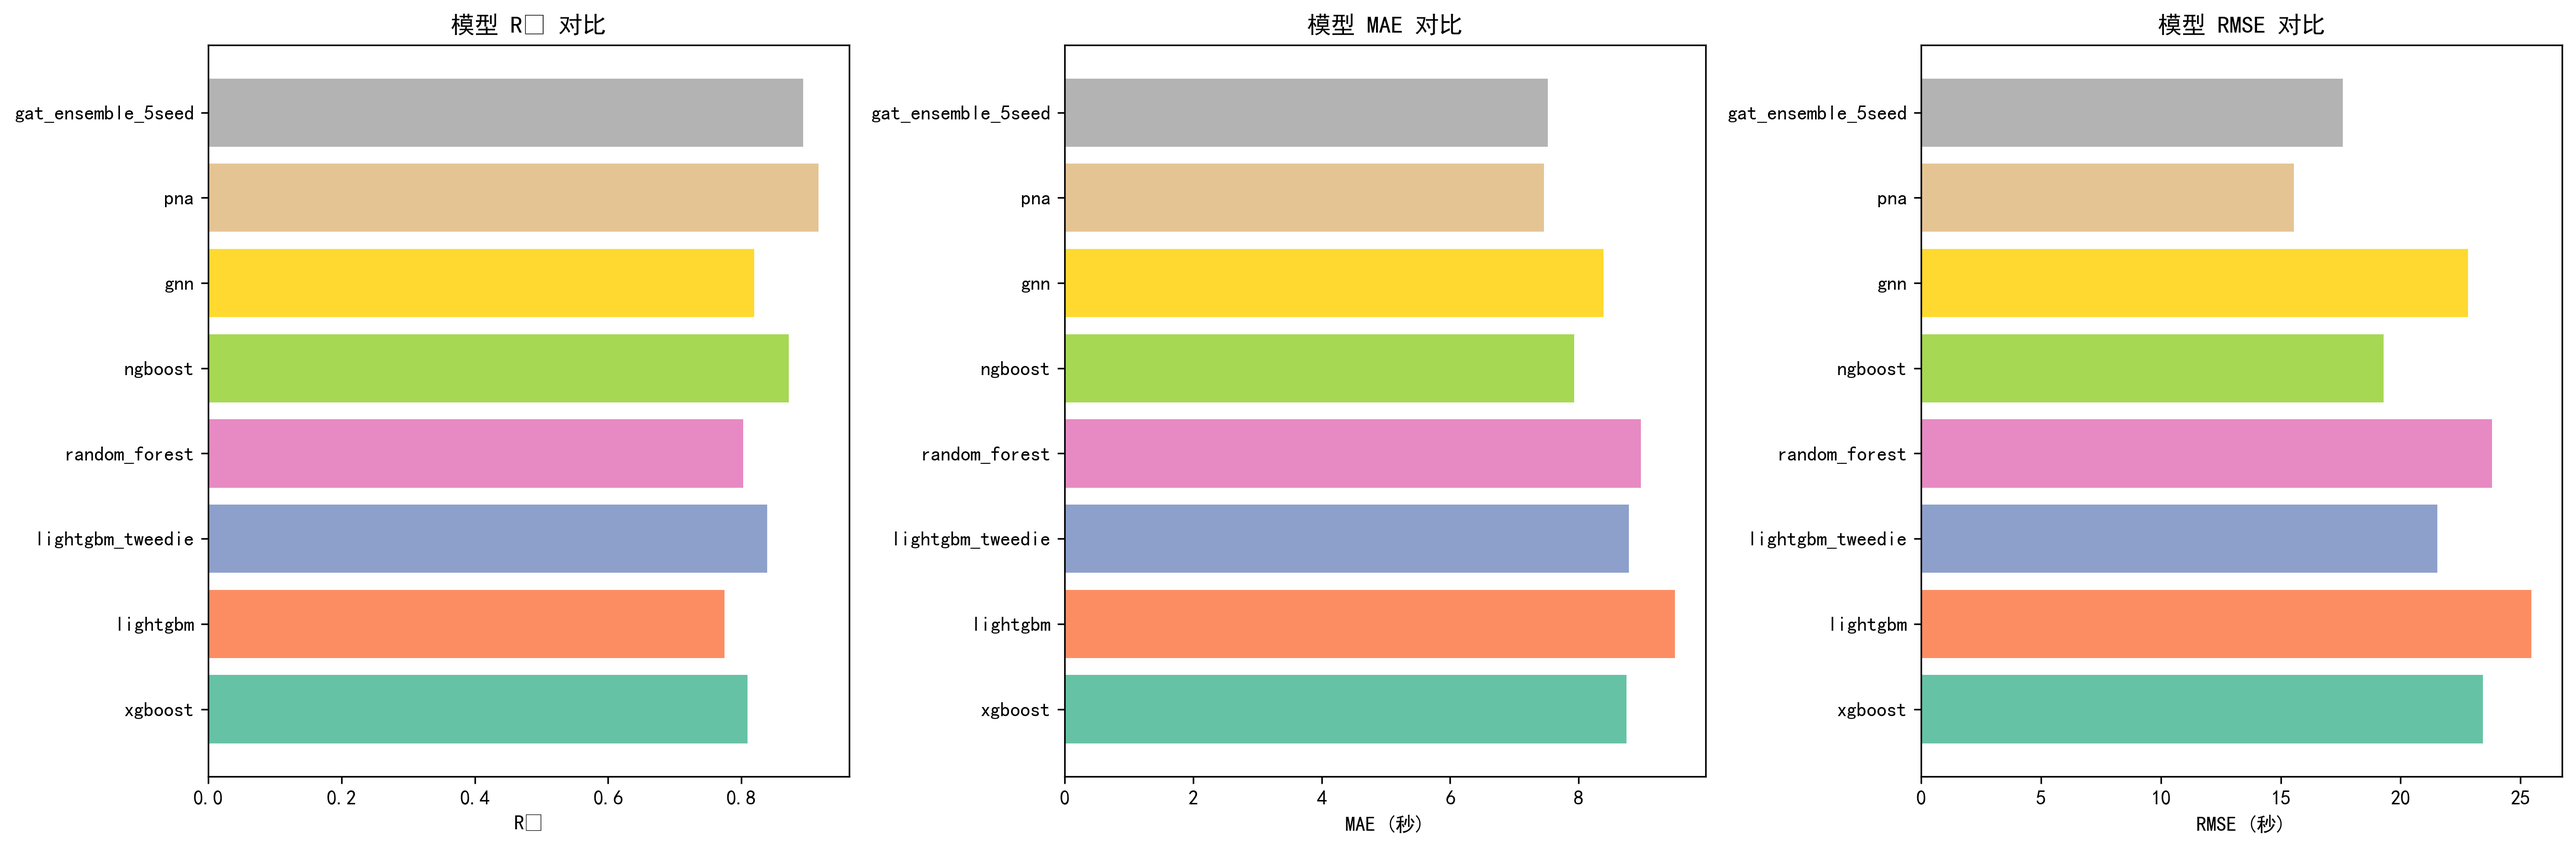
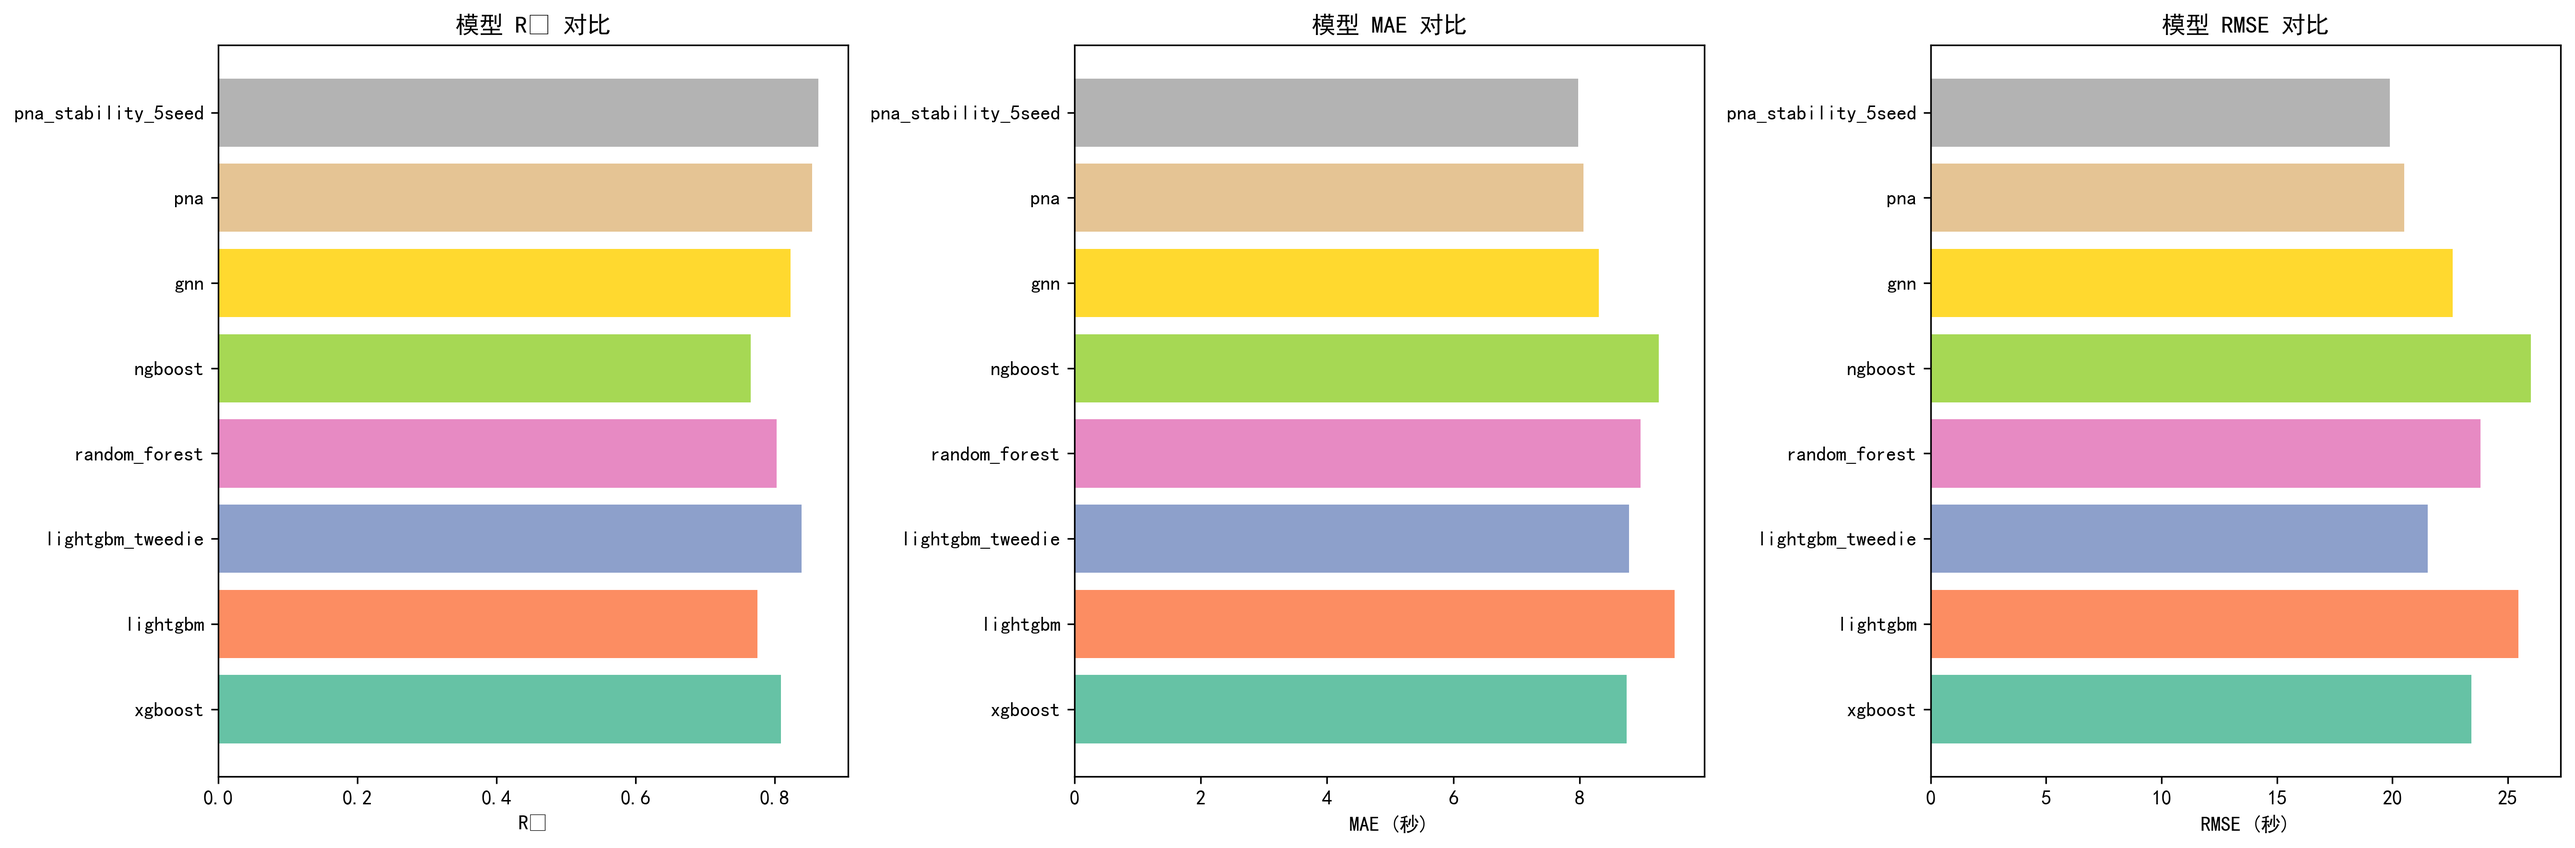
refactor(model): GNN 块简化为'选最优 + GNN 5-seed 稳定性验证' (新最佳 pna_stability_5seed R2=0.8626)

diff --git a/advanced_weight_model.py b/advanced_weight_model.py
@@ -977,7 +977,7 @@ class AdvancedWeightModel:
         self._print_comparison_table(results)
         self._model_results = results
 
-        # 所有模型统一在时间空间评估边×时段级别 R²
+        # 所有模型统一在时间空间评估边×时段级别 R2
         for model_name, result in results.items():
             if result.model is None:
                 continue
@@ -2847,77 +2847,70 @@ if __name__ == '__main__':
     model = AdvancedWeightModel()
     edge_features = model.build_weights_with_comparison(graph, cleaned_df, use_grid_search=True)
 
-    # ===== GNN 两阶段集成 =====
-    if HAS_PYG:
+    # ===== 最优模型 + 稳定性验证 =====
+    print(f"\n{'='*60}")
+    print(f"Step: 找最优 + 稳定性验证")
+    print(f"{'='*60}")
+
+    # 1. 选最优(从 build_weights_with_comparison 跑出的 7 个模型里)
+    best_name = max(model._model_results, key=lambda k: model._model_results[k].r2)
+    best_r2 = model._model_results[best_name].r2
+    print(f"  最优单次模型: {best_name} (R2={best_r2:.4f})")
+
+    # 2. 稳定性验证:仅对 GNN(波动大)做 5-seed,其他模型单次即代表
+    if HAS_PYG and best_name in ('gnn', 'pna'):
+        arch = 'gat' if best_name == 'gnn' else 'pna'
         SEEDS = [42, 123, 456, 789, 1011]
-        GNN_ARCHES = ['gat', 'pna']
+        print(f"\n  {best_name} 是 GNN 家族,跑 5 个 seed 验证稳定性")
 
-        # ---------- Stage 1: 单 seed 选 arch (seed=42) ----------
-        print(f"\n{'='*60}")
-        print(f"GNN Stage 1: 各 arch 单 seed 选赢家 (seed=42)")
-        print(f"{'='*60}")
+        runs = []
+        for seed in SEEDS:
+            r = train_gnn_with_seed(model, seed, gnn_arch=arch)
+            runs.append(r)
+            print(f"  {arch} seed={seed}: R2={r.r2:.4f} MAE={r.mae:.2f}s")
 
-        stage1_results = {}
-        for arch in GNN_ARCHES:
-            r = train_gnn_with_seed(model, 42, gnn_arch=arch)
-            stage1_results[arch] = r
-            print(f"  {arch} (seed=42): R2={r.r2:.4f}  MAE={r.mae:.2f}s")
+        rs = [r.r2 for r in runs]
+        mean_r2 = float(np.mean(rs))
+        std_r2 = float(np.std(rs))
+        print(f"\n  {arch} 5-seed 稳定性: R2={mean_r2:.4f} ± {std_r2:.4f}  (min={min(rs):.4f}, max={max(rs):.4f})")
 
-        winner_arch = max(stage1_results, key=lambda a: stage1_results[a].r2)
-        print(f"\n  -> Stage 1 赢家: {winner_arch} (R2={stage1_results[winner_arch].r2:.4f})")
-
-        # ---------- Stage 2: 赢家 arch 跑 5 seed 集成(复用 Stage 1 的 seed=42,只跑 4 个新 seed) ----------
-        print(f"\n{'='*60}")
-        print(f"GNN Stage 2: {winner_arch} 5 seed 集成 (复用 seed=42 + 4 新 seed)")
-        print(f"{'='*60}")
-
-        gnn_seed_results = [stage1_results[winner_arch]]  # 复用 Stage 1 的 seed=42
-        gnn_all_preds = [stage1_results[winner_arch].predictions] if stage1_results[winner_arch].predictions is not None else []
-        print(f"  {winner_arch} seed=42 (复用): R2={stage1_results[winner_arch].r2:.4f} MAE={stage1_results[winner_arch].mae:.2f}s")
-
-        for seed in SEEDS[1:]:  # 跳过 42,只跑 4 个新 seed
-            r = train_gnn_with_seed(model, seed, gnn_arch=winner_arch)
-            print(f"  {winner_arch} seed={seed}: R2={r.r2:.4f} MAE={r.mae:.2f}s")
-            gnn_seed_results.append(r)
-            if r.predictions is not None:
-                gnn_all_preds.append(r.predictions)
-
+        # 集成预测(5 seed 预测平均)
+        gnn_all_preds = [r.predictions for r in runs if r.predictions is not None]
         if gnn_all_preds:
             avg_pred = np.mean(gnn_all_preds, axis=0)
-            y_true = gnn_seed_results[0].y_test
-
+            y_true = runs[0].y_test
             ens_mae = mean_absolute_error(y_true, avg_pred)
             ens_rmse = np.sqrt(mean_squared_error(y_true, avg_pred))
             ens_r2 = r2_score(y_true, avg_pred)
             mask = y_true != 0
             ens_mape = np.mean(np.abs((y_true[mask] - avg_pred[mask]) / y_true[mask])) * 100 if mask.any() else 0
 
-            ens_avg_r2 = float(np.mean([r.r2 for r in gnn_seed_results]))
-            ens_std_r2 = float(np.std([r.r2 for r in gnn_seed_results]))
+            print(f"  集成预测: R2={ens_r2:.4f}  MAE={ens_mae:.2f}s  RMSE={ens_rmse:.2f}s  MAPE={ens_mape:.2f}%")
 
-            print(f"\n  {winner_arch} 集成 ({len(gnn_seed_results)} seed): R2={ens_r2:.4f}  MAE={ens_mae:.2f}s  RMSE={ens_rmse:.2f}s  MAPE={ens_mape:.2f}%")
-            print(f"  {winner_arch} 单 seed 平均: R2={ens_avg_r2:.4f} ± {ens_std_r2:.4f}")
-
-            ens_name = f'{winner_arch}_ensemble_{len(gnn_seed_results)}seed'
+            ens_name = f'{arch}_stability_5seed'
             ens_result = ModelResult(
                 model_name=ens_name,
-                train_time=sum(r.train_time for r in gnn_seed_results),
+                train_time=sum(r.train_time for r in runs),
                 mae=ens_mae,
                 rmse=ens_rmse,
                 r2=ens_r2,
                 mape=ens_mape,
-                model=gnn_seed_results[-1].model,
+                model=runs[-1].model,
                 predictions=avg_pred,
                 use_log_transform=False,
                 y_test=y_true
             )
             model._model_results[ens_name] = ens_result
 
-            best_r2 = model._model_results[model.best_model_name].r2 if model.best_model_name else -1
             if ens_r2 > best_r2:
-                print(f"  -> 集成模型 (R2={ens_r2:.4f}) 优于当前最优 {model.best_model_name} (R2={best_r2:.4f}), 设为最佳模型")
+                print(f"  -> 集成 (R2={ens_r2:.4f}) 优于单次 {best_name} (R2={best_r2:.4f}), 设为最佳")
                 model.best_model_name = ens_name
-                model.best_model = gnn_seed_results[-1].model
+                model.best_model = runs[-1].model
+            else:
+                print(f"  -> 集成 (R2={ens_r2:.4f}) 未超过单次 {best_name} (R2={best_r2:.4f}), 保留 {best_name} 为 best")
+    else:
+        reason = "PyG 不可用" if not HAS_PYG else f"{best_name} 非 GNN"
+        print(f"\n  跳过 5-seed 验证 ({reason},单次 R2 即代表稳定性)")
 
     output_dir = os.path.join(os.path.dirname(os.path.abspath(__file__)), 'output')
     model.export_results(output_dir)

diff --git a/docs/superpowers/plans/2026-06-09-two-stage-gnn-ensemble.md b/docs/superpowers/plans/2026-06-09-two-stage-gnn-ensemble.md
@@ -2,11 +2,11 @@
 
 > **For agentic workers:** REQUIRED SUB-SKILL: Use superpowers:subagent-driven-development (recommended) or superpowers:executing-plans to implement this plan task-by-task. Steps use checkbox (`- [ ]`) syntax for tracking.
 
-**Goal:** 把 `advanced_weight_model.py` 中硬编码的 GAT 5-seed 集成改为"两阶段":先在 1 个 seed 上对比 GAT/PNA 选出赢家,再对赢家做 5-seed 集成,保证 PNA 不会被硬编码歧视。
+**Goal:** 在 `advanced_weight_model.py` 入口加一个"找最优 + 稳定性验证"步骤:从 `build_weights_with_comparison` 跑出的 7 个模型里选 R² 最高的,如果最优是 GNN(GAT 或 PNA)就再跑 5 个 seed 看 mean ± std,其他模型(XGBoost/LightGBM/RF/NGBoost)单次 R² 即代表稳定性。
 
-**Architecture:** 单文件改造,改动局限在 `if __name__ == "__main__":` 入口的 GNN 集成块(约 2853-2900 行)。Stage 1 跑 GAT/PNA 各 1 个 seed(用 `seed=42`,与 `build_weights_with_comparison` 内的初次训练保持一致,便于对照);Stage 2 跑赢家 arch 的 5 个 seed 做集成。
+**Architecture:** 单文件改造,改动局限在 `if __name__ == "__main__":` 入口、原 GNN 集成块的位置。先 `max(_model_results, key=R²)` 选最优,然后 `if best ∈ {gnn, pna} and HAS_PYG:` 跑 5 seed 稳定性,else 跳过。
 
-**关键优化(2026-06-09 追加):** Stage 1 已经为赢家 arch 训练过 `seed=42`,Stage 2 复用该结果作为 5-seed 集成的第 0 项,只再跑 4 个新 seed。整体训练时间从原 1.0× 增加到约 **1.02×**(只多 4 个新 seed,原本省 1 个 seed),既保证公平选 arch,又不浪费算力。
+**简化迭代(2026-06-09 晚):** 最初设计是"两阶段"——Stage 1 选 GAT/PNA 赢家,Stage 2 对赢家做 5-seed 集成。这个设计对 GAT vs PNA 的 arch 选择是公平的,但有两个问题:(1) 选 arch 时只看 GAT vs PNA,不看 XGBoost/LightGBM 等,可能选错;(2) 跑 5 seed 是为了"集成提分",但用户实际想要的是"验证稳定性"。简化版直接选 7 个模型里的最优,只对 GNN 做 5-seed 验证(其他模型波动小,单次即代表)。
 
 **Tech Stack:** Python 3, PyTorch, PyTorch Geometric, NumPy, sklearn (R²/MAE/RMSE), 现有 `AdvancedWeightModel._train_gnn` + 顶层函数 `train_gnn_with_seed`
 
